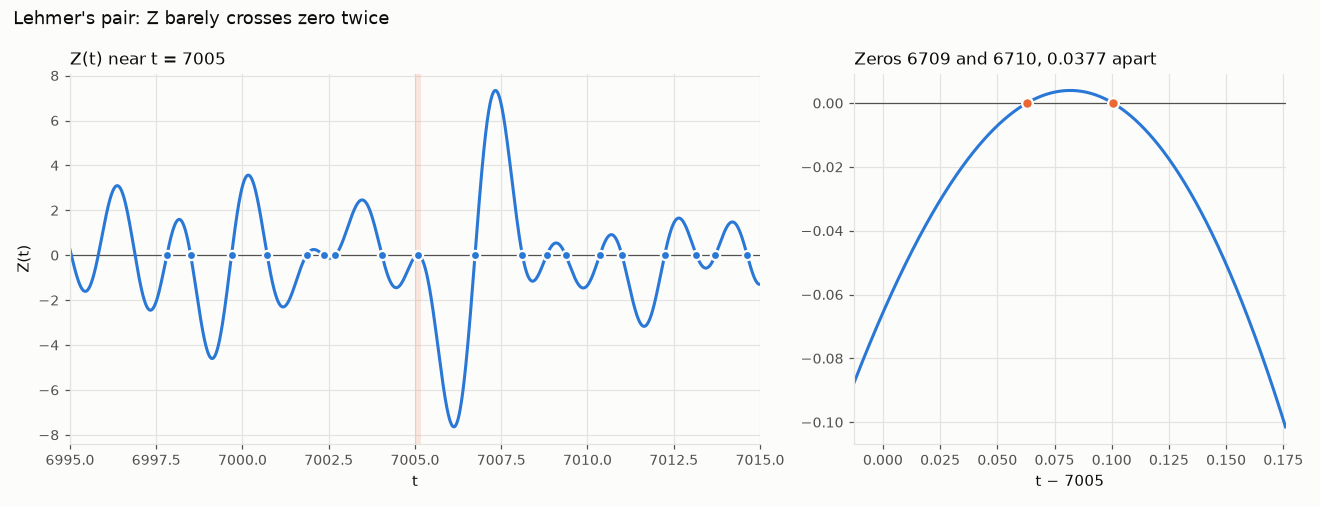
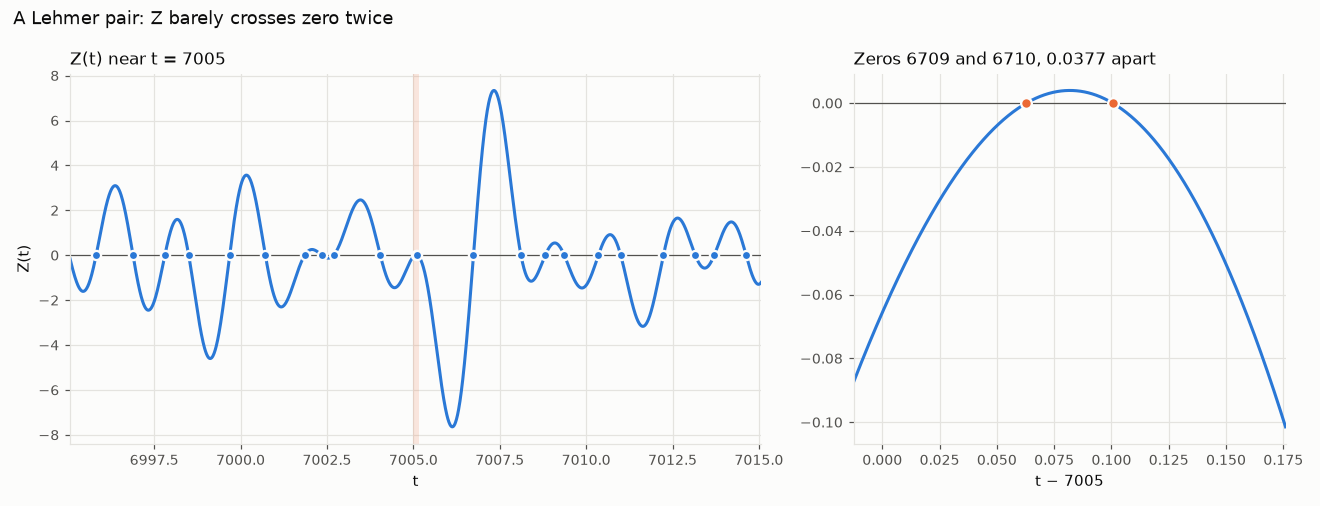
cleanup

diff --git a/src/zeta_explorer/plot.py b/src/zeta_explorer/plot.py
@@ -312,11 +312,12 @@ def plot_explicit(
     return fig
 
 
-def plot_lehmer(t_min: float = 6995.0, t_max: float = 7015.0, samples: int = 2000) -> Figure:
+def plot_lehmer(n: int = 6709, half_width: float = 10.0, samples: int = 2000) -> Figure:
     import matplotlib.pyplot as plt
 
-    gamma = first_zeros(6720)[6700:]
-    a, b = gamma[8], gamma[9]
+    gamma = first_zeros(n + 64)
+    a, b = gamma[n - 1], gamma[n]
+    t_min, t_max = a - half_width, a + half_width
     pad = 2 * (b - a)
     t = np.linspace(t_min, t_max, samples)
     zoom = np.linspace(a - pad, b + pad, samples // 2)
@@ -337,13 +338,13 @@ def plot_lehmer(t_min: float = 6995.0, t_max: float = 7015.0, samples: int = 200
     left.axvspan(a - pad, b + pad, color=ACCENT, alpha=0.15, linewidth=0)
     left.set_xlim(t_min, t_max)
     left.set_ylabel("Z(t)", color=INK)
-    left.set_title("Z(t) near t = 7005", color=INK, fontsize=11, loc="left")
+    left.set_title(f"Z(t) near t = {a:.0f}", color=INK, fontsize=11, loc="left")
     right.plot([a - origin, b - origin], [0, 0], "o", color=ACCENT, markersize=7,
                markeredgecolor=SURFACE, markeredgewidth=1.5)
     right.set_xlim(zoom[0] - origin, zoom[-1] - origin)
-    right.set_title(f"Zeros 6709 and 6710, {b - a:.4f} apart", color=INK, fontsize=11,
+    right.set_title(f"Zeros {n} and {n + 1}, {b - a:.4f} apart", color=INK, fontsize=11,
                     loc="left")
-    fig.suptitle("Lehmer's pair: Z barely crosses zero twice", color=INK, fontsize=12, x=0.01,
+    fig.suptitle("A Lehmer pair: Z barely crosses zero twice", color=INK, fontsize=12, x=0.01,
                  ha="left")
     fig.tight_layout()
     return fig

diff --git a/tests/test_lehmer.py b/tests/test_lehmer.py
@@ -2,7 +2,7 @@ import mpmath
 import numpy as np
 import pytest
 
-from zeta_explorer.lehmer import T0, lehmer_pairs, lehmer_sums, newman_bound, smooth_count
+from zeta_explorer.lehmer import T0, lehmer_pairs, lehmer_sums, newman_bound
 from zeta_explorer.riemann_siegel import theta
 from zeta_explorer.spacing import first_zeros, zeros_between
 
@@ -25,10 +25,15 @@ def _hadamard_g(a, b):
     return _hadamard_half(a, b) + _hadamard_half(b, a)
 
 
-def test_smooth_count():
-    assert smooth_count(T0) == pytest.approx(0, abs=1e-14)
+def _smooth_count(t):
+    u = t / (2 * np.pi)
+    return u * (np.log(u) - 1) + 7 / 8
+
+
+def test_t0_is_where_the_smooth_count_starts():
+    assert _smooth_count(T0) == pytest.approx(0, abs=1e-14)
     for t in (1e3, 1e5):
-        assert smooth_count(t) == pytest.approx(theta(t) / np.pi + 1, abs=1e-4)
+        assert _smooth_count(t) == pytest.approx(theta(t) / np.pi + 1, abs=1e-4)
 
 
 @pytest.mark.parametrize("i", [0, 50, 700])

diff --git a/src/zeta_explorer/lehmer.py b/src/zeta_explorer/lehmer.py
@@ -13,11 +13,6 @@ T0 = 9.676906787165866
 LEHMER_THRESHOLD = 0.8
 
 
-def smooth_count(t: ArrayLike) -> np.ndarray:
-    u = np.asarray(t, dtype=float) / TWO_PI
-    return u * (np.log(u) - 1) + 7 / 8
-
-
 def _smooth_sum(c: np.ndarray, lo: ArrayLike, hi: ArrayLike) -> np.ndarray:
     def G(t):
         t = np.asarray(t, dtype=float)
